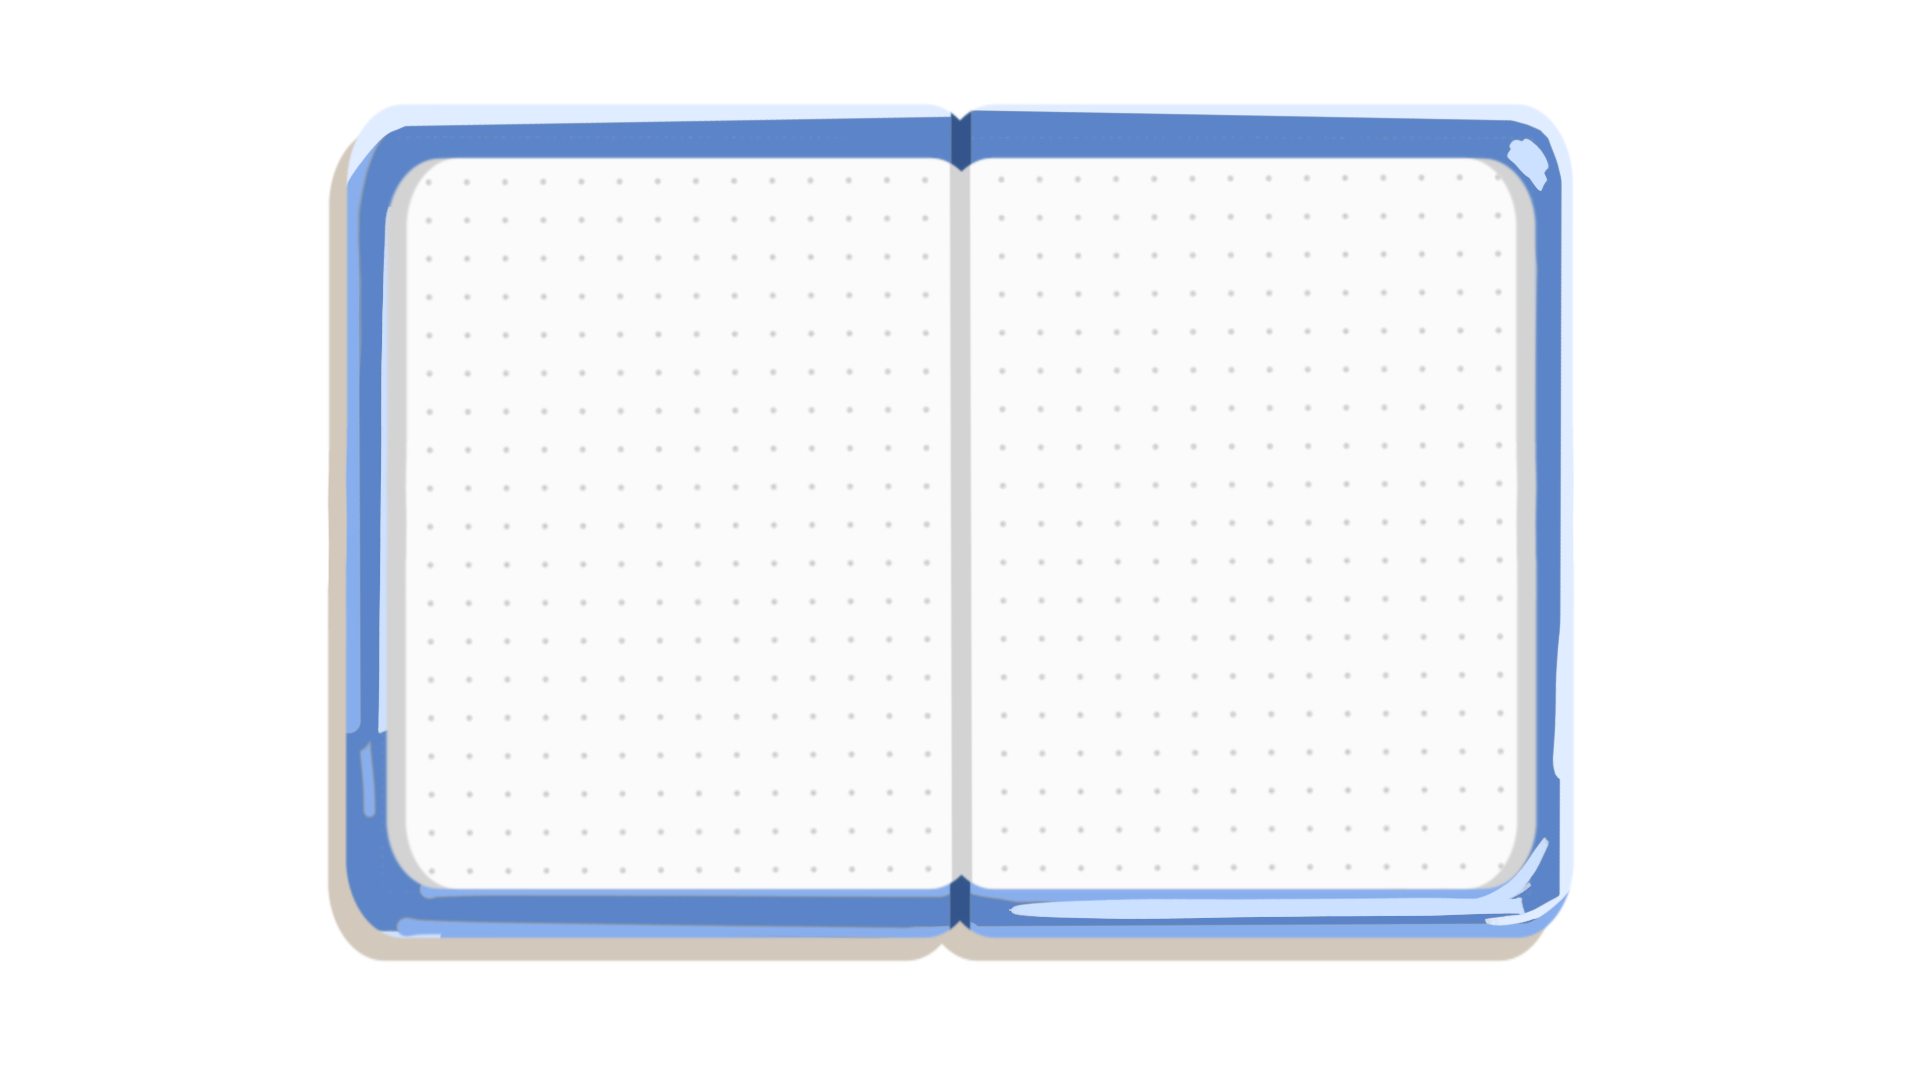
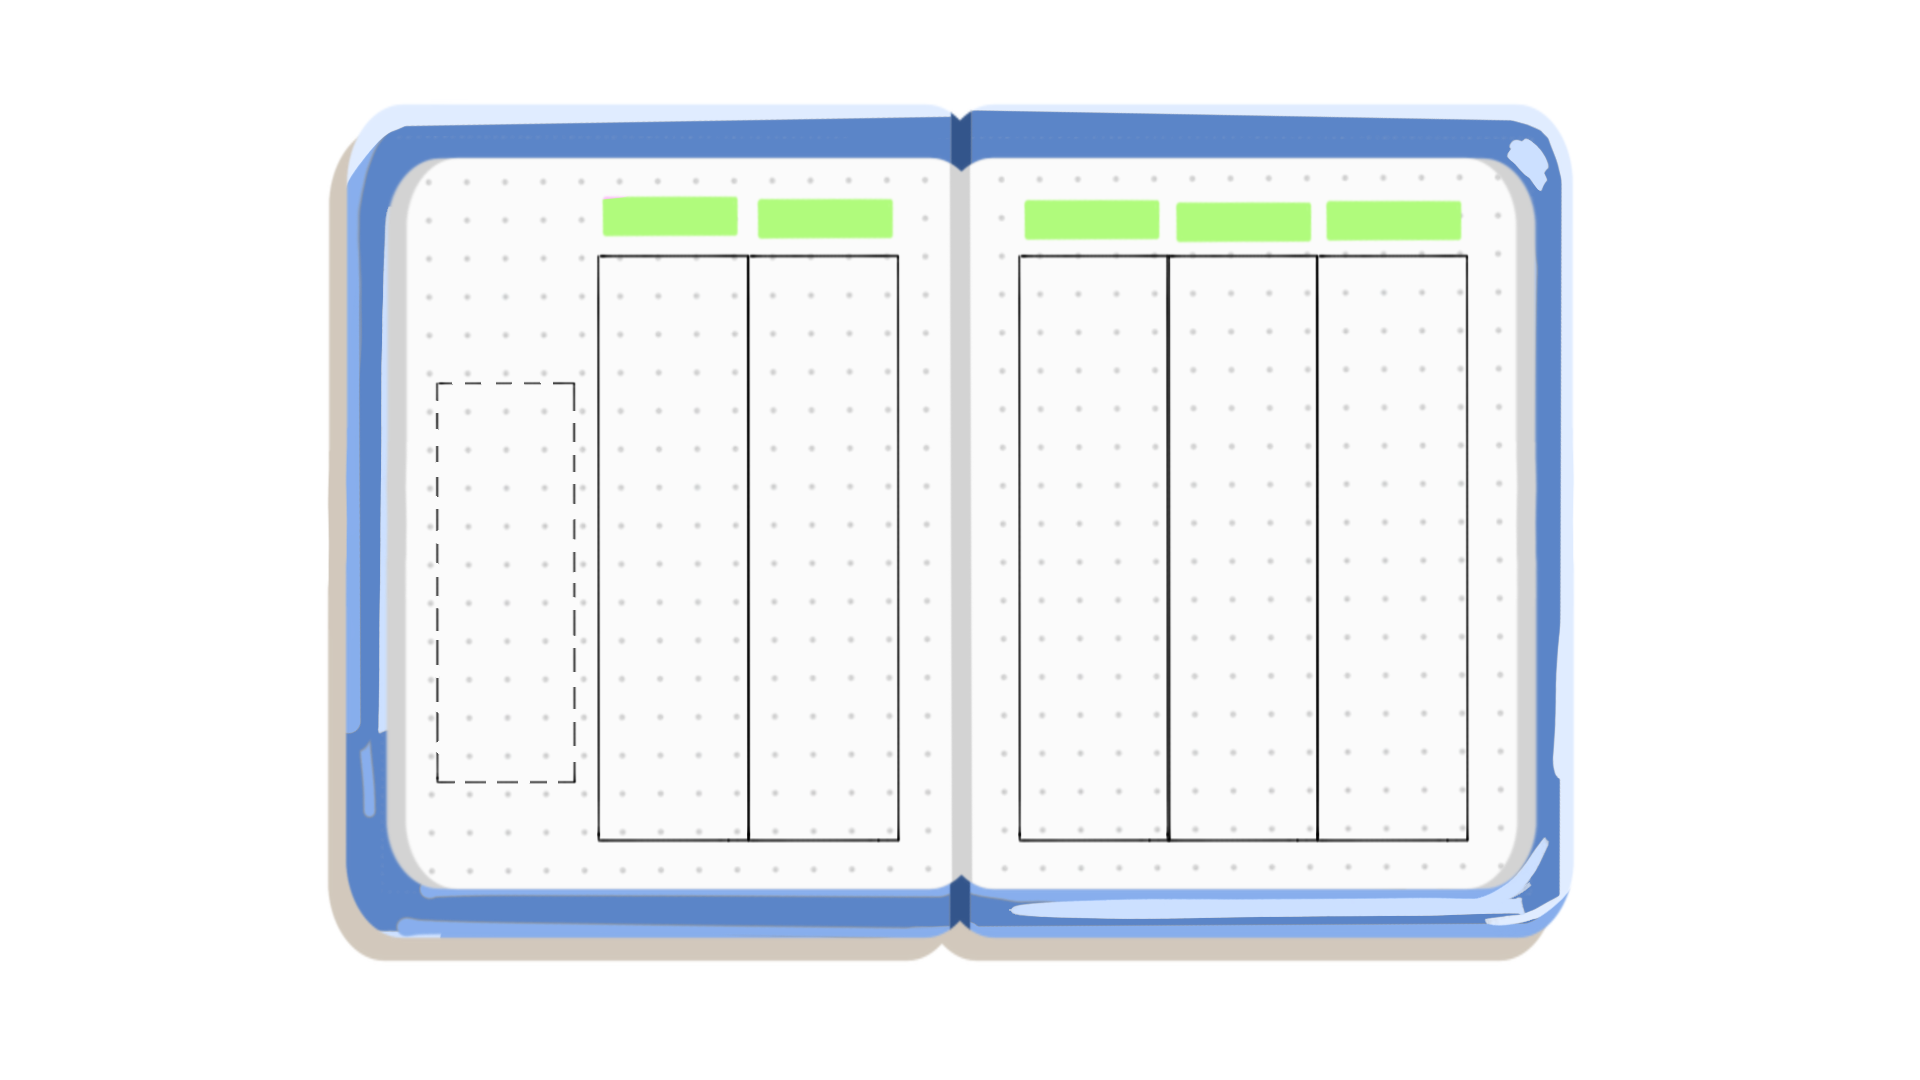
blocks now scale up when dragged, added new book

diff --git a/Assets/Scripts/UI/BlockDrag.cs b/Assets/Scripts/UI/BlockDrag.cs
@@ -29,6 +29,9 @@ public class BlockDrag : MonoBehaviour, IBeginDragHandler, IEndDragHandler, IDra
 
     [SerializeField] private GameManager gameManager;
 
+    private float scaleUp = 2f;
+    private float scaleTime = 0.2f;
+
     private void Awake()
     {
         canvasGroup = GetComponent<CanvasGroup>();
@@ -82,6 +85,8 @@ public class BlockDrag : MonoBehaviour, IBeginDragHandler, IEndDragHandler, IDra
                 initialColumn.AnimateLayout(gameObject.transform);
             }
         }
+
+        LeanTween.scale(rectTransform, Vector3.one * scaleUp, scaleTime);
     }
 
     public void OnDrag(PointerEventData eventData)
@@ -204,6 +209,8 @@ public class BlockDrag : MonoBehaviour, IBeginDragHandler, IEndDragHandler, IDra
 
     public void OnEndDrag(PointerEventData eventData)
     {
+        LeanTween.scale(rectTransform, Vector3.one, scaleTime);
+
         gameObject.GetComponent<AudioSource>().PlayOneShot(gameManager.audioClips[3]);
         if (postIt.GetComponent<Animator>())
         {
